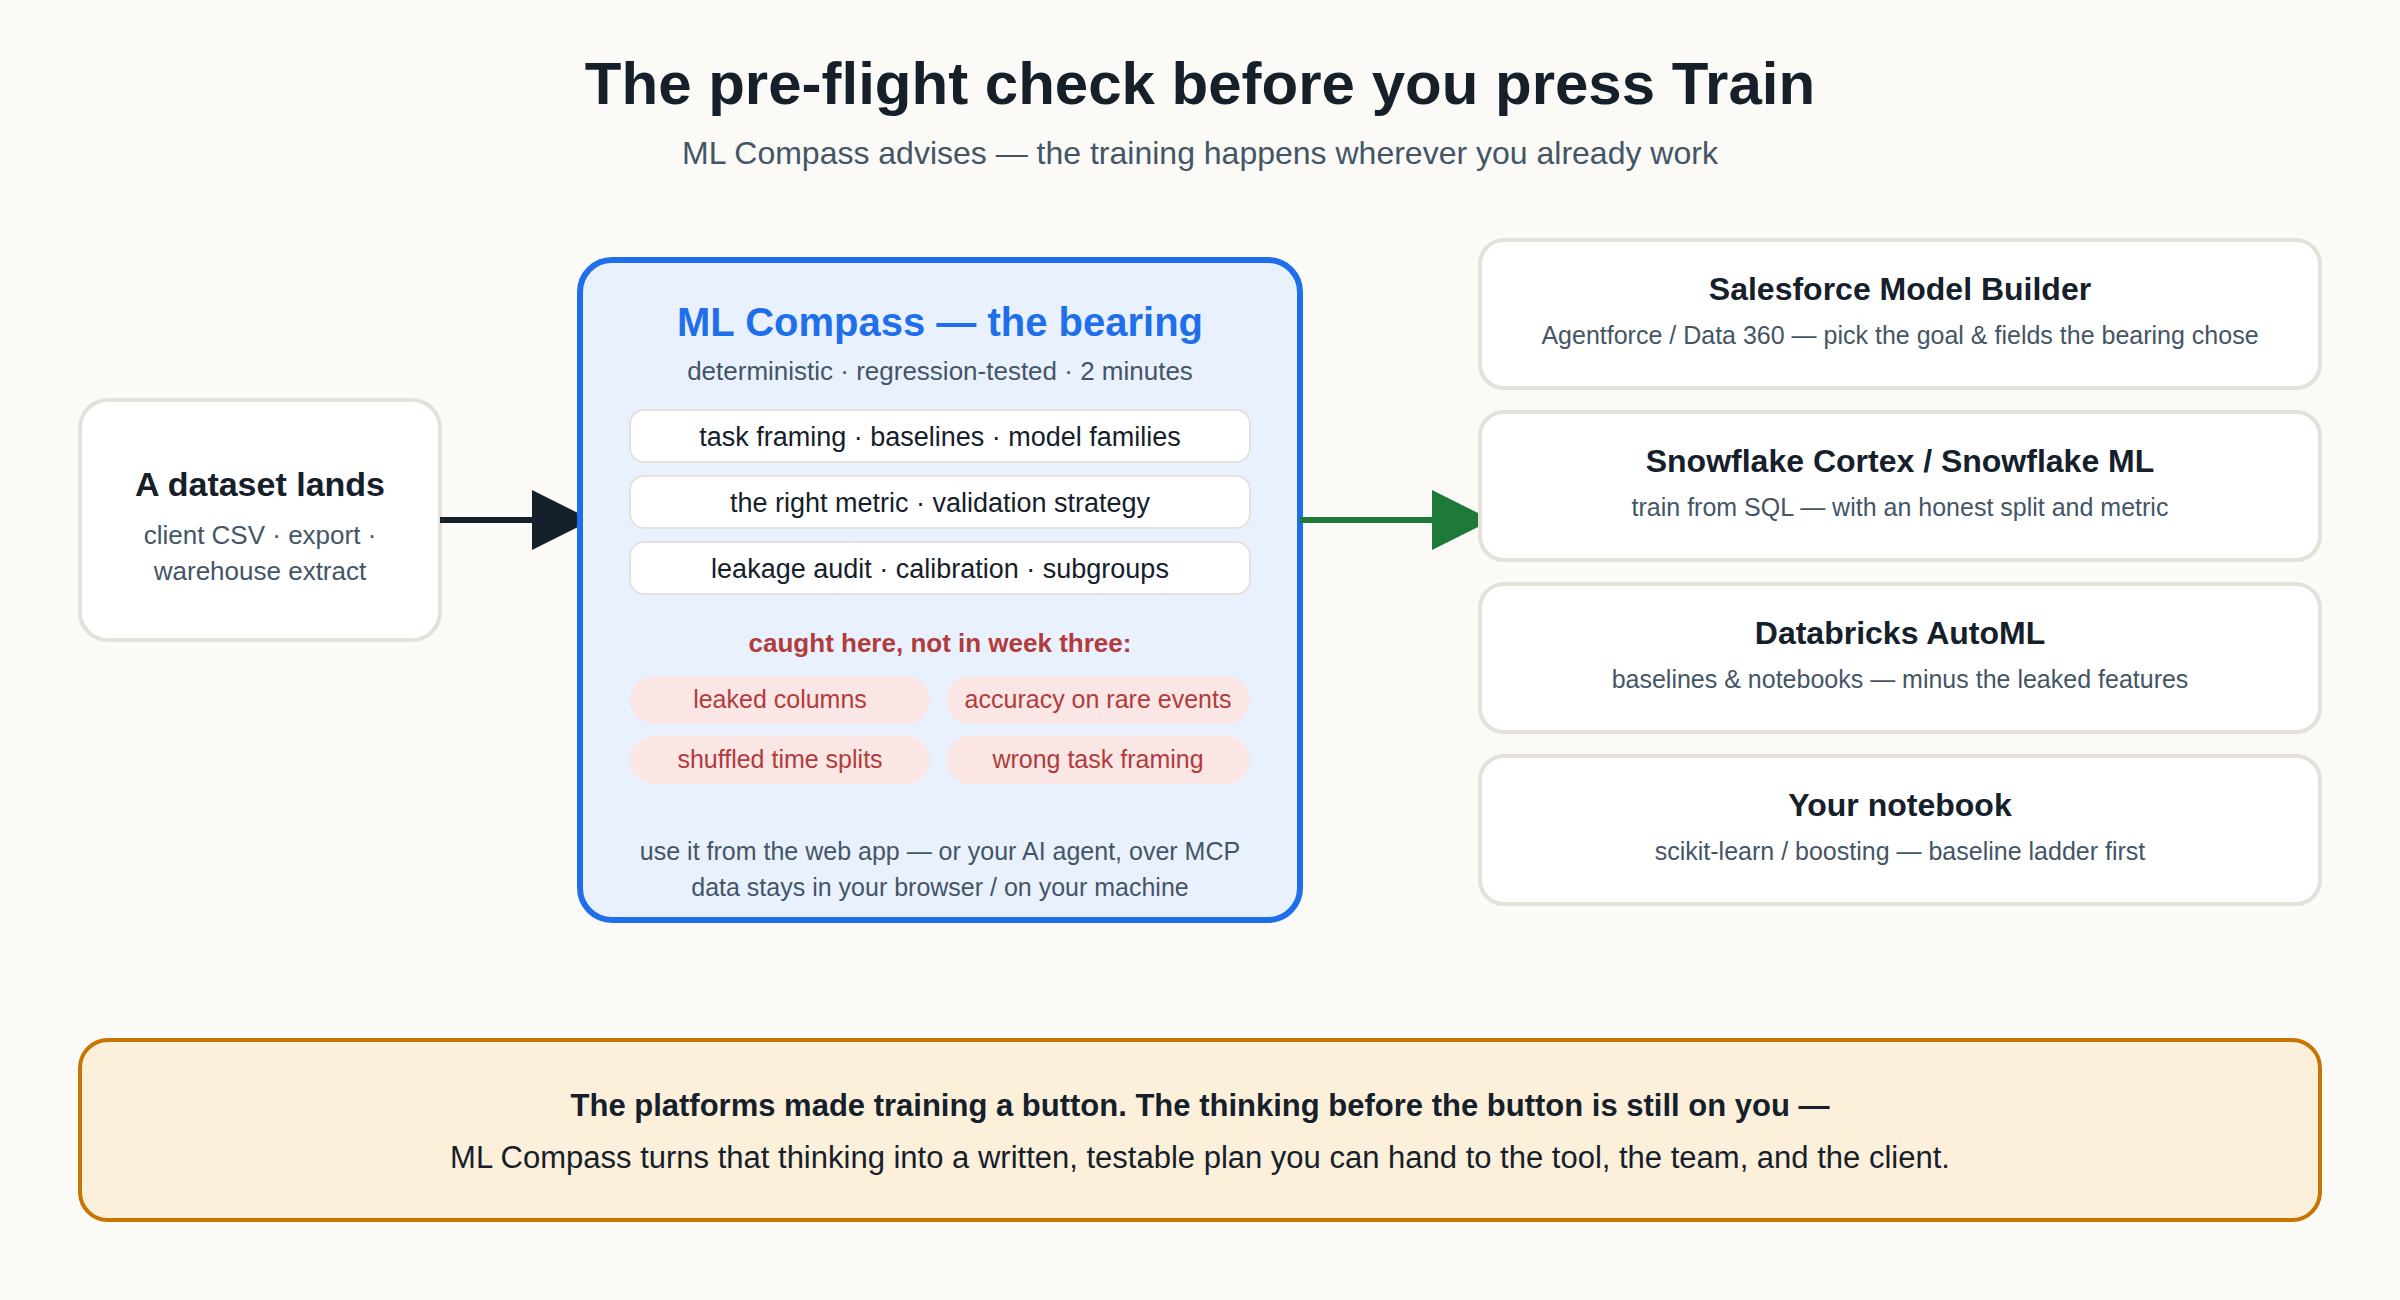
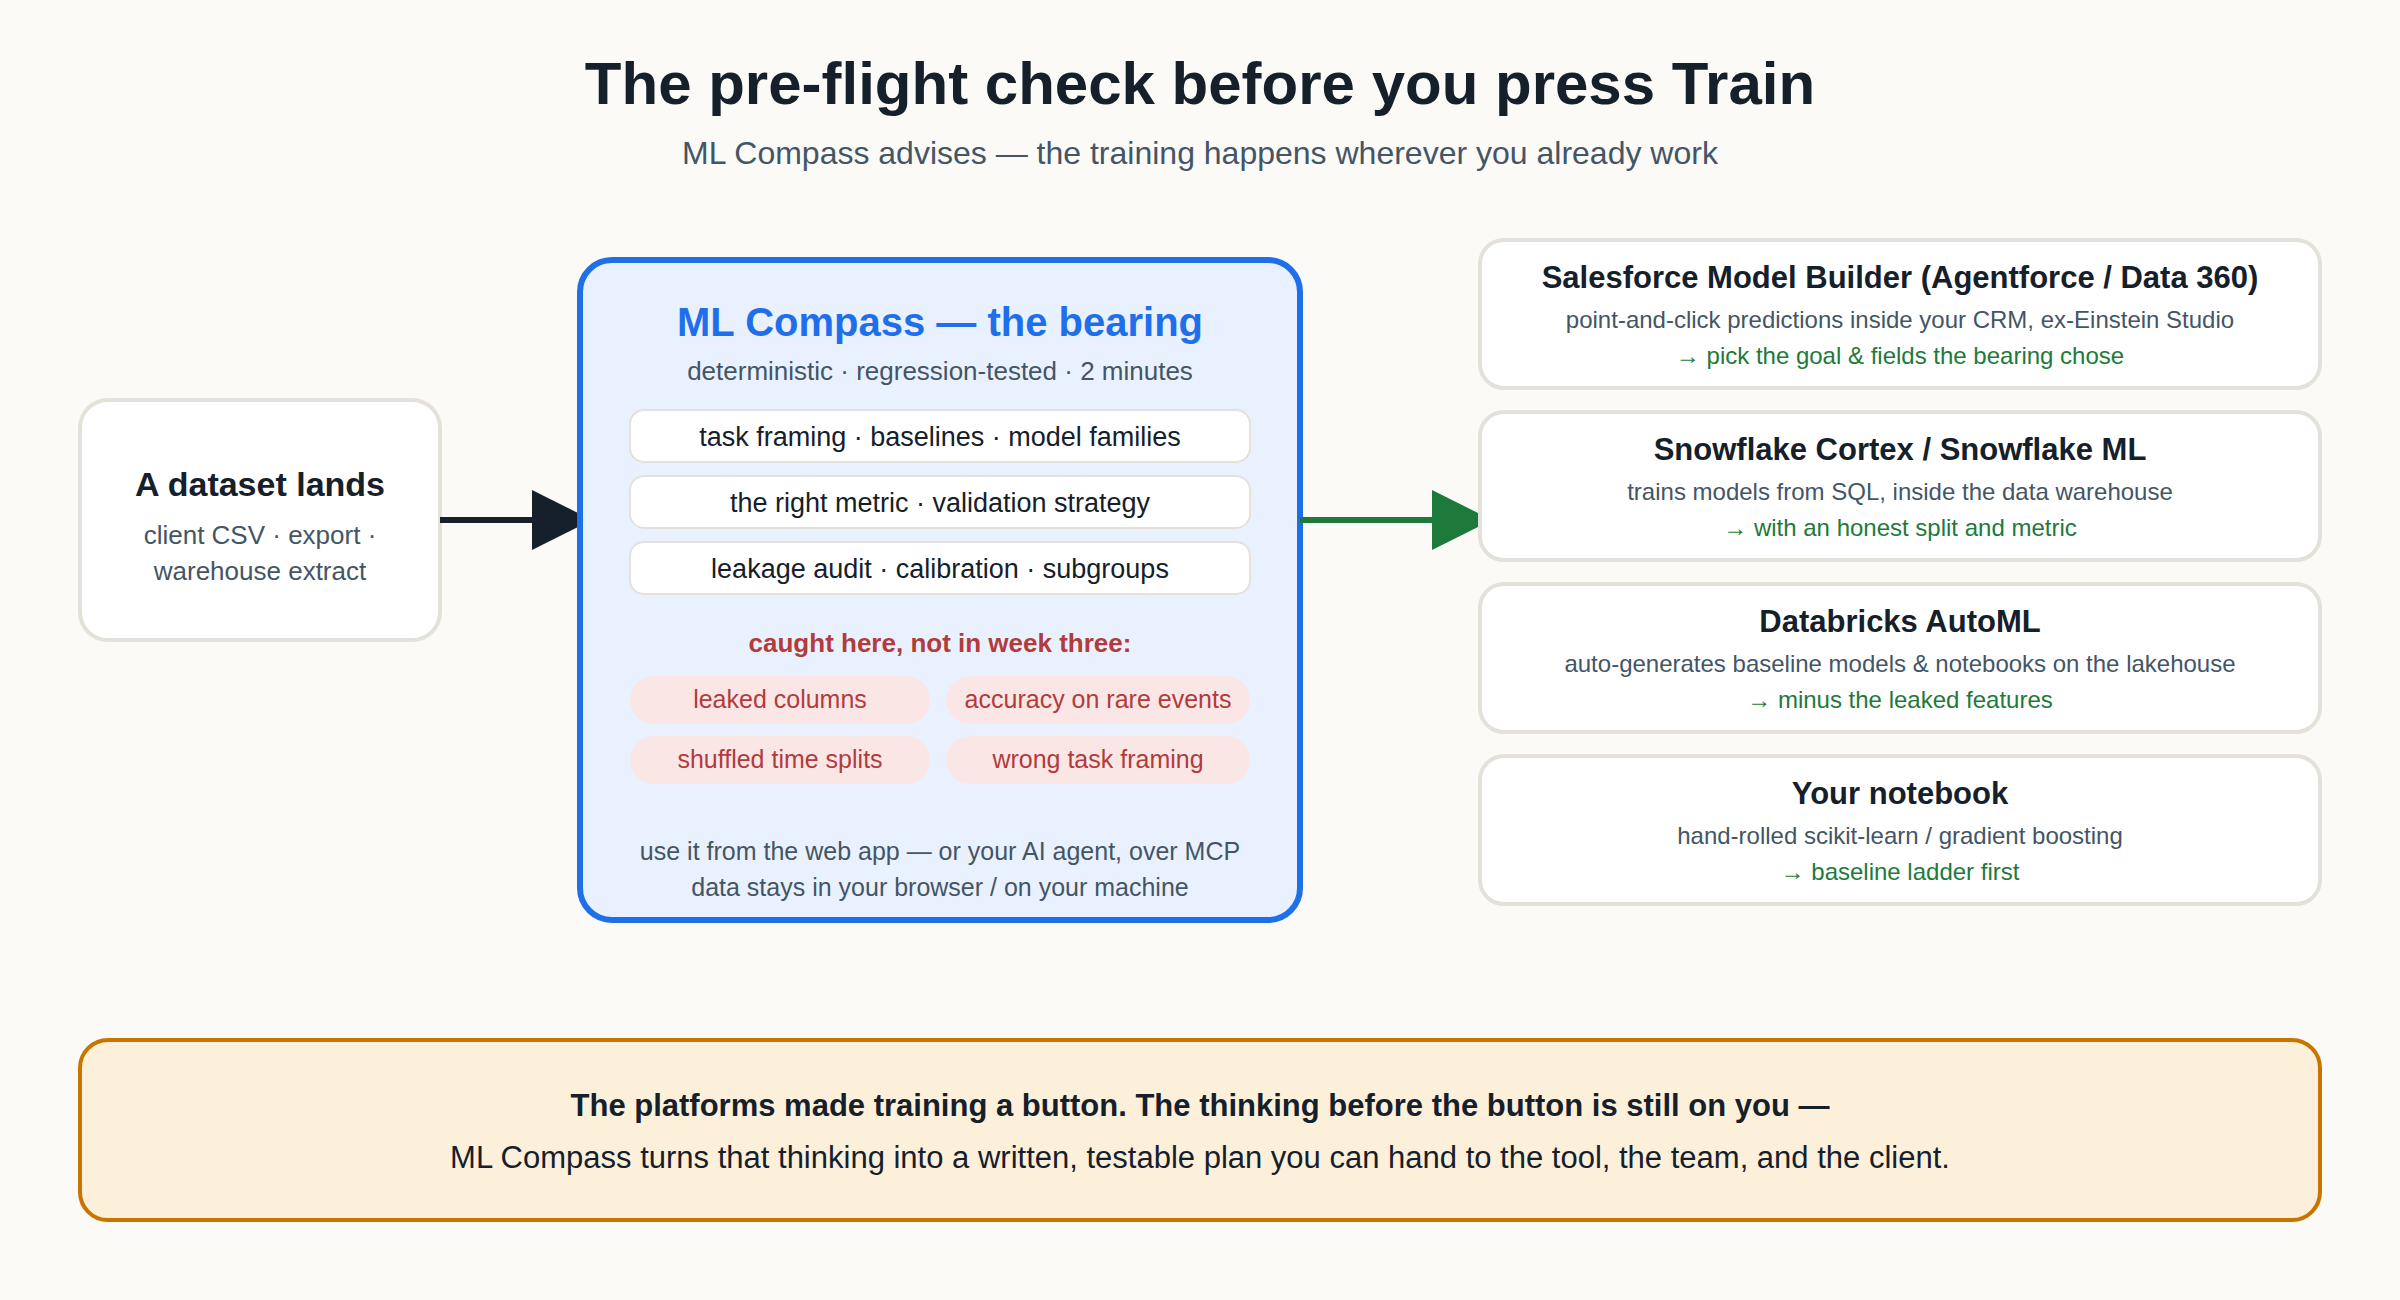
docs: fully qualify platform names for readers outside those ecosystems
Not everyone knows what 'Model Builder' or 'Cortex' is. Article now vendor-
qualifies every mention (Salesforce's Agentforce Model Builder, Snowflake
Cortex, Databricks AutoML) with a what-it-is gloss on first use; the pre-flight
diagram's destination cards each gain a plain-language descriptor line
(point-and-click predictions in your CRM / trains models from SQL in the
warehouse / auto-generated baselines on the lakehouse) plus the bearing's
contribution in green. Diagram source updated and re-rendered.

diff --git a/docs/diagram-preflight.src.html b/docs/diagram-preflight.src.html
@@ -40,20 +40,24 @@
   <!-- destinations -->
   <g>
     <rect x="740" y="120" width="420" height="74" rx="12" fill="#ffffff" stroke="#e3e1da" stroke-width="2"/>
-    <text x="950" y="150" text-anchor="middle" font-size="16" font-weight="bold" fill="#15202b">Salesforce Model Builder</text>
-    <text x="950" y="172" text-anchor="middle" font-size="12.5" fill="#445566">Agentforce / Data 360 — pick the goal &amp; fields the bearing chose</text>
+    <text x="950" y="144" text-anchor="middle" font-size="15.5" font-weight="bold" fill="#15202b">Salesforce Model Builder (Agentforce / Data 360)</text>
+    <text x="950" y="164" text-anchor="middle" font-size="12" fill="#445566">point-and-click predictions inside your CRM, ex-Einstein Studio</text>
+    <text x="950" y="182" text-anchor="middle" font-size="12" fill="#1d7a3a">→ pick the goal &amp; fields the bearing chose</text>
 
     <rect x="740" y="206" width="420" height="74" rx="12" fill="#ffffff" stroke="#e3e1da" stroke-width="2"/>
-    <text x="950" y="236" text-anchor="middle" font-size="16" font-weight="bold" fill="#15202b">Snowflake Cortex / Snowflake ML</text>
-    <text x="950" y="258" text-anchor="middle" font-size="12.5" fill="#445566">train from SQL — with an honest split and metric</text>
+    <text x="950" y="230" text-anchor="middle" font-size="15.5" font-weight="bold" fill="#15202b">Snowflake Cortex / Snowflake ML</text>
+    <text x="950" y="250" text-anchor="middle" font-size="12" fill="#445566">trains models from SQL, inside the data warehouse</text>
+    <text x="950" y="268" text-anchor="middle" font-size="12" fill="#1d7a3a">→ with an honest split and metric</text>
 
     <rect x="740" y="292" width="420" height="74" rx="12" fill="#ffffff" stroke="#e3e1da" stroke-width="2"/>
-    <text x="950" y="322" text-anchor="middle" font-size="16" font-weight="bold" fill="#15202b">Databricks AutoML</text>
-    <text x="950" y="344" text-anchor="middle" font-size="12.5" fill="#445566">baselines &amp; notebooks — minus the leaked features</text>
+    <text x="950" y="316" text-anchor="middle" font-size="15.5" font-weight="bold" fill="#15202b">Databricks AutoML</text>
+    <text x="950" y="336" text-anchor="middle" font-size="12" fill="#445566">auto-generates baseline models &amp; notebooks on the lakehouse</text>
+    <text x="950" y="354" text-anchor="middle" font-size="12" fill="#1d7a3a">→ minus the leaked features</text>
 
     <rect x="740" y="378" width="420" height="74" rx="12" fill="#ffffff" stroke="#e3e1da" stroke-width="2"/>
-    <text x="950" y="408" text-anchor="middle" font-size="16" font-weight="bold" fill="#15202b">Your notebook</text>
-    <text x="950" y="430" text-anchor="middle" font-size="12.5" fill="#445566">scikit-learn / boosting — baseline ladder first</text>
+    <text x="950" y="402" text-anchor="middle" font-size="15.5" font-weight="bold" fill="#15202b">Your notebook</text>
+    <text x="950" y="422" text-anchor="middle" font-size="12" fill="#445566">hand-rolled scikit-learn / gradient boosting</text>
+    <text x="950" y="440" text-anchor="middle" font-size="12" fill="#1d7a3a">→ baseline ladder first</text>
   </g>
 
   <!-- bottom note -->

diff --git a/docs/article-ml-compass.md b/docs/article-ml-compass.md
@@ -38,11 +38,11 @@ None of these are model-selection problems. They're judgment problems, and they 
 
 Here's the part I didn't expect to care about until I lived it.
 
-The platforms most teams now use have made *training* a model dramatically easier. In Salesforce, **Model Builder** (in Data 360's *AI Models* surface, formerly Einstein Studio) lets an admin build a predictive model with clicks. **Snowflake Cortex** and Snowflake ML train classification or forecasting models from a line of SQL. **Databricks AutoML** generates baseline models and notebooks automatically, and **Genie** answers data questions in plain language.
+The platforms most teams now use have made *training* a model dramatically easier. In Salesforce, **Model Builder** — the point-and-click predictive tool in the Agentforce / Data 360 stack (formerly Einstein Studio) — lets an admin build a model without code. **Snowflake Cortex** and Snowflake ML train classification or forecasting models from a line of SQL. **Databricks AutoML** generates baseline models and notebooks automatically, and **Genie** answers data questions in plain language.
 
 This is genuinely great — and ML Compass isn't a competitor to any of it. But notice what got automated and what didn't. These tools help enormously with the *mechanics* of training. What they rarely do is force the uncomfortable framing questions: *will this feature actually exist at prediction time? is accuracy meaningful when one class is rare? should this be split by time?* It's still easy to optimize for accuracy on a 2%-positive target and get a beautiful, misleading number. Those decisions are still on you, and they're where projects quietly fail.
 
-Put crisply: **Model Builder trains models. Cortex trains models from SQL. Databricks AutoML automates the experimentation. ML Compass decides what should be trained — and how it should be judged — before any of them run.**
+Put crisply: **Salesforce's Agentforce Model Builder trains models with clicks. Snowflake Cortex trains them from SQL, inside the warehouse. Databricks AutoML automates the experimentation. ML Compass decides what should be trained — and how it should be judged — before any of them run.**
 
 So if you're a Salesforce architect who can stand up a Model Builder prediction in your sleep but isn't steeped in *why* accuracy is the wrong success metric for a rare event — that gap is exactly the risk. ML Compass is meant to be the **pre-flight checklist you run before you press their Train button**: a reasoned second opinion, not another model.
 
@@ -66,7 +66,7 @@ Three things make it different.
 
 ## What it isn't (and what it can't do)
 
-It's an advisor, not an AutoML tool. It doesn't train a model or touch your warehouse — it produces the *plan and the reasoning* you take *into* Model Builder (Data 360), Cortex, Databricks, or a notebook.
+It's an advisor, not an AutoML tool. It doesn't train a model or touch your warehouse — it produces the *plan and the reasoning* you take *into* Salesforce's Model Builder, Snowflake Cortex, Databricks AutoML, or a notebook.
 
 And to be honest about the limits: ML Compass advises, it doesn't guarantee. It won't tell you whether your problem is worth solving, replace domain or clinical review, or certify a model as fair or correct. It gets you to a defensible starting point faster and flags the common traps. The judgment stays yours.
 
@@ -83,7 +83,7 @@ Four steps, about two minutes:
 
 ## What it looks like on a real dataset
 
-A SaaS company hands you a customer export and asks the classic question: predict who will cancel so the retention team can step in. Forty-odd columns and a tidy `churn` flag. The obvious move is to load it into Model Builder (or Databricks AutoML), set the goal to `churn`, optimize accuracy, and ship.
+A SaaS company hands you a customer export and asks the classic question: predict who will cancel so the retention team can step in. Forty-odd columns and a tidy `churn` flag. The obvious move is to load it into Salesforce's Model Builder (or Databricks AutoML), set the goal to `churn`, optimize accuracy, and ship.
 
 The whole exchange is about five taps. Its questions, verbatim, and the answers a churn project gives:
 
@@ -101,7 +101,7 @@ Here's the bearing ML Compass returns from those answers:
 **Your next step.** The plan drops straight into whatever you build with:
 
 1. **Drop the leaks** — remove `customer_id` and the three after-the-fact columns first.
-2. **Set the right metric** — PR-AUC or recall-at-precision, not accuracy (the "goal" you pick in Model Builder; the scoring function in a notebook).
+2. **Set the right metric** — PR-AUC or recall-at-precision, not accuracy (the "goal" you pick in Salesforce's Model Builder; the scoring function in a notebook).
 3. **Split by time** — train on earlier customers, validate on later ones. No random shuffle.
 4. **Start simple** — logistic baseline, then gradient boosting, and keep the complex model only if it clears the baseline by a real margin.
 5. **Calibrate before you rank** — so the retention team can trust a "70% risk."
@@ -164,7 +164,7 @@ Analysts, architects, admins, and data teams who are comfortable in AutoML or a 
 
 - **Architects working alongside ML engineers.** An architect rarely owns the model, but is on the hook for whether the project is framed right. ML Compass gives both sides a shared, written artifact — task, metric, validation, leakage — to align on *before* any code is written. The architect can interrogate the dataset and challenge the setup without having to be the ML specialist in the room, and the engineer starts from a defensible brief instead of a vague ask.
 - **Catching errors early — and making the client aware.** The cheapest place to find a leaked column or the wrong success metric is the whiteboard, not week three of model iteration. A bearing you can hand to a client turns "trust us" into "here's what we checked, here's the risk we found, and here's the caveat" — which is also how you set honest expectations before anyone has seen a number.
-- **Platforms where you push data straight to a model builder.** This is the sharpest use case. When you load a dataset into a point-and-click trainer — Salesforce's Model Builder (Data 360, formerly Einstein Studio), and similar tooling in Snowflake or Databricks — the platform will happily train on whatever you give it. And even where automated training exists, it rarely forces the *pre-modeling* questions: is this column actually available at prediction time, is accuracy the right metric on a 5%-positive class, is a random split honest for time-ordered data? ML Compass is the checklist that runs in exactly that gap — before the platform turns your setup, mistakes and all, into a deployed model.
+- **Platforms where you push data straight to a model builder.** This is the sharpest use case. When you load a dataset into a point-and-click trainer — Salesforce's Model Builder (Agentforce / Data 360, formerly Einstein Studio), and similar tooling in Snowflake or Databricks — the platform will happily train on whatever you give it. And even where automated training exists, it rarely forces the *pre-modeling* questions: is this column actually available at prediction time, is accuracy the right metric on a 5%-positive class, is a random split honest for time-ordered data? ML Compass is the checklist that runs in exactly that gap — before the platform turns your setup, mistakes and all, into a deployed model.
 
 ## Try it
 